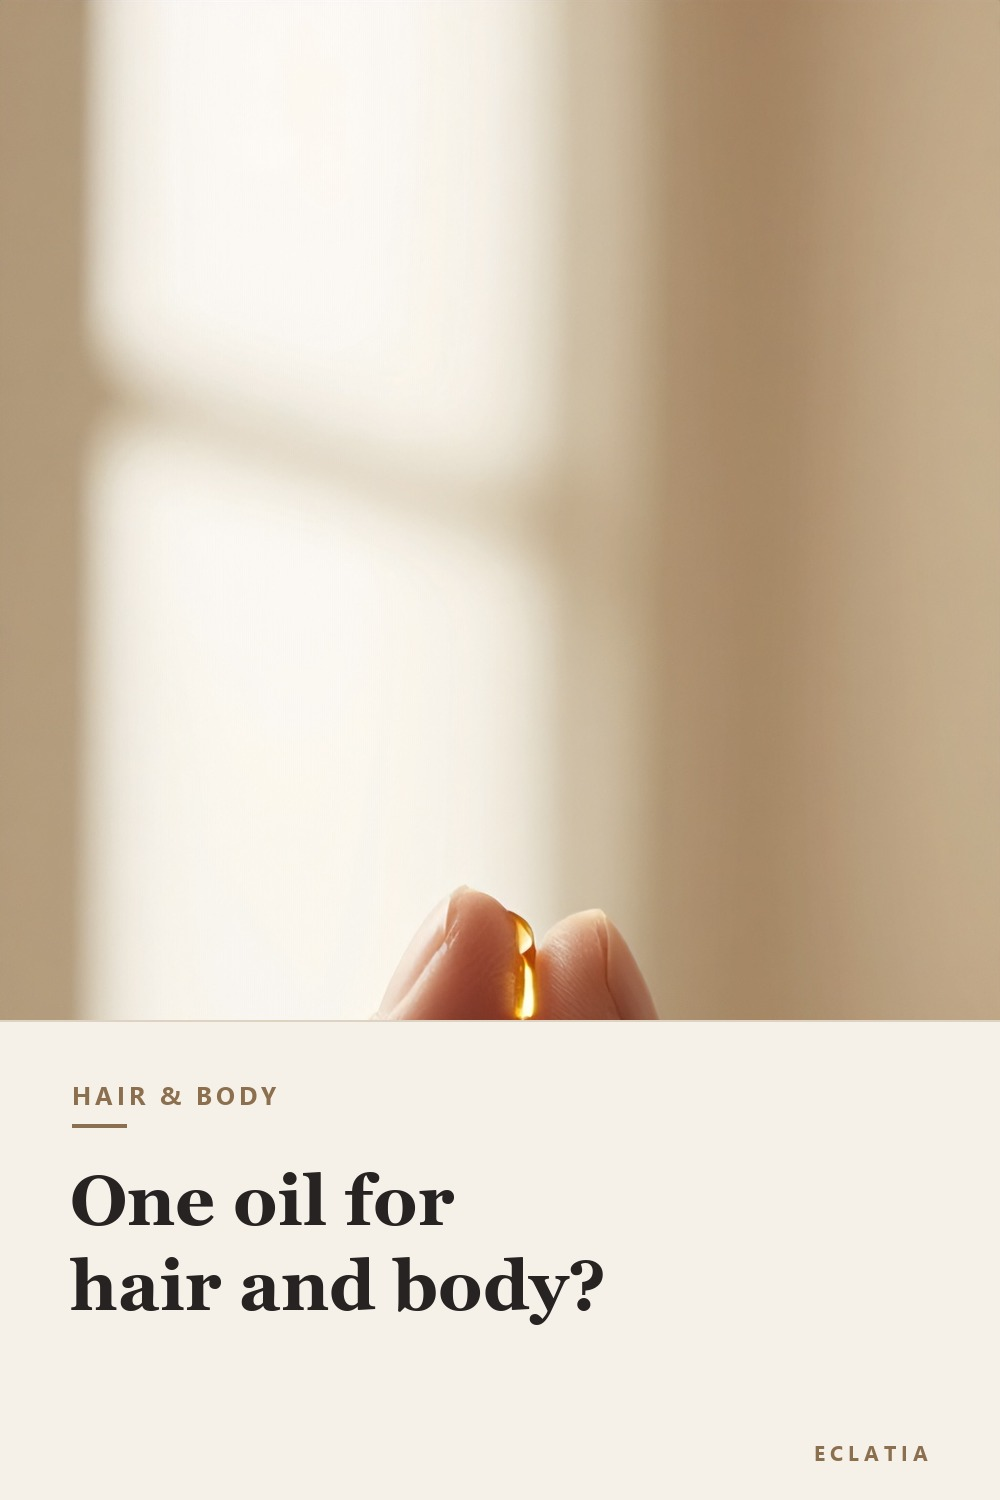
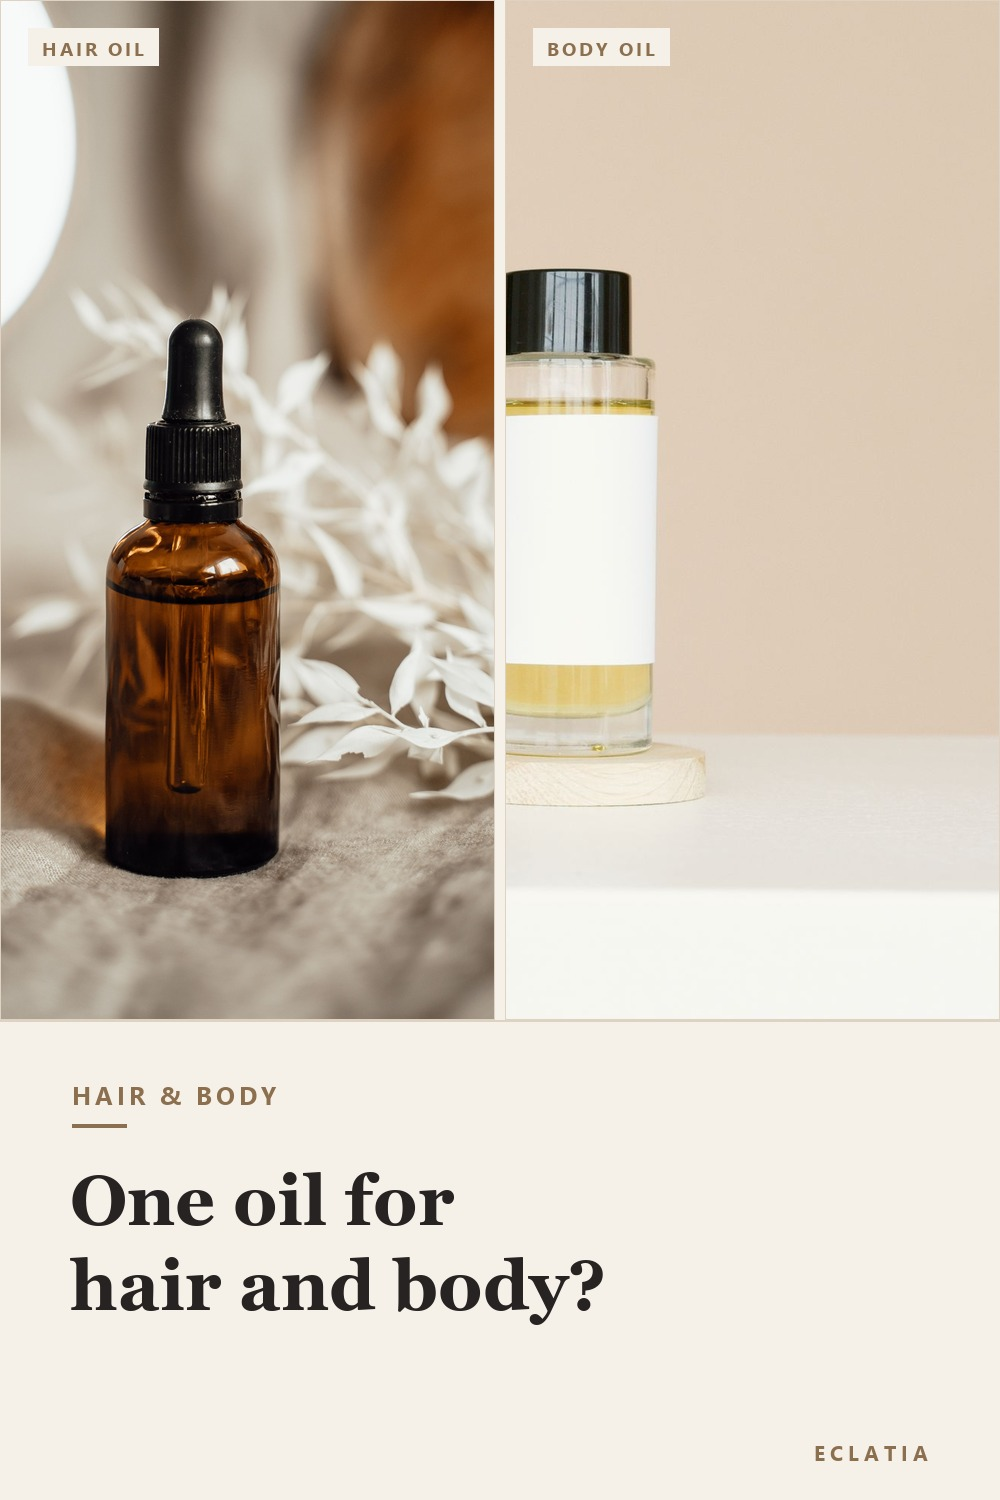
P08: visuel v2 en diptyque produit (huile cheveux / huile corps)

diff --git a/scripts/make_pins_p08.py b/scripts/make_pins_p08.py
@@ -1,0 +1,94 @@
+"""Compose le pin P08 (v2) : diptyque huile cheveux / huile corps.
+
+v1 montrait une goutte d'huile entre deux doigts sur un fond beige presque vide :
+joli, mais abstrait — et les chiffres Pinterest du compte disent que les pins
+« concept » ne declenchent pas de clic (0,4 % sur le tableau corps contre 5,3 %
+sur les cheveux). Ici, chaque moitie montre un flacon identifiable et la
+comparaison se lit d'un coup d'oeil : HAIR OIL a gauche, BODY OIL a droite.
+
+Aucune marque lisible (flacon ambre uni / flacon transparent uni).
+
+Entree  : visuels/body-oil/base-P08-hair.jpg  (Pexels 7795850)
+          visuels/body-oil/base-P06c.jpg      (Pexels 6801173)
+Sortie  : visuels/body-oil/pin-P08.jpg + pin-P08.png (1000 x 1500)
+"""
+import os
+
+from PIL import Image, ImageDraw, ImageFont
+
+from make_pins_body_oil import ACCENT, CREAM, H, INK, LINE, SEGOE_B, W, fit_font, spaced
+
+BASE = os.path.join("docs", "contenus-a-valider", "visuels", "body-oil")
+PANEL_H = 480
+GAP = 10
+PHOTO_H = 1020
+COL_W = (W - GAP) // 2  # 495
+
+KICKER = "HAIR & BODY"
+LINES = ["One oil for", "hair and body?"]
+LABELS = [
+    # (fichier, libelle, x de gauche, cadrage horizontal)
+    ("base-P08-hair.jpg", "HAIR OIL", 0, 0.50),
+    ("base-P06c.jpg", "BODY OIL", COL_W + GAP, 0.95),
+]
+
+
+def crop_fill(img, w, h, cx=0.5, top_frac=0.5):
+    r = max(w / img.width, h / img.height)
+    im = img.resize((round(img.width * r), round(img.height * r)), Image.LANCZOS)
+    left = round((im.width - w) * cx)
+    top = round((im.height - h) * top_frac)
+    left = max(0, min(left, im.width - w))
+    top = max(0, min(top, im.height - h))
+    return im.crop((left, top, left + w, top + h))
+
+
+def chip(d, xy, text, font):
+    x, y = xy
+    tw = sum(d.textlength(c, font=font) + 3 for c in text) - 3
+    pad_x, pad_y = 14, 9
+    d.rectangle([x, y, x + tw + 2 * pad_x, y + font.size + 2 * pad_y], fill=CREAM)
+    spaced(d, (x + pad_x, y + pad_y - 2), text, font, ACCENT, 3)
+
+
+def build():
+    canvas = Image.new("RGB", (W, H), CREAM)
+    fchip = ImageFont.truetype(SEGOE_B, 19)
+    for name, label, x, cx in LABELS:
+        photo = crop_fill(Image.open(os.path.join(BASE, name)).convert("RGB"), COL_W, PHOTO_H, cx)
+        canvas.paste(photo, (x, 0))
+        d = ImageDraw.Draw(canvas)
+        d.rectangle([x, 0, x + COL_W - 1, PHOTO_H - 1], outline=LINE, width=1)
+        chip(d, (x + 28, 28), label, fchip)
+
+    # bandeau texte
+    d = ImageDraw.Draw(canvas)
+    d.rectangle([0, H - PANEL_H, W, H], fill=CREAM)
+    d.rectangle([0, H - PANEL_H, W, H - PANEL_H + 1], fill=LINE)
+
+    x = 72
+    spaced(d, (x, H - PANEL_H + 58), KICKER, ImageFont.truetype(SEGOE_B, 25), ACCENT, 4)
+    d.rectangle([x, H - PANEL_H + 104, x + 54, H - PANEL_H + 107], fill=ACCENT)
+
+    f, size = fit_font(d, LINES, W - 2 * x)
+    lh = round(size * 1.22)
+    y = H - PANEL_H + 140
+    for line in LINES:
+        d.text((x - 2, y), line, font=f, fill=INK)
+        y += lh
+
+    fs = ImageFont.truetype(SEGOE_B, 21)
+    label = "ECLATIA"
+    tw = sum(d.textlength(c, font=fs) + 5 for c in label) - 5
+    spaced(d, (W - x - tw, H - 62), label, fs, ACCENT, 5)
+
+    jpg = os.path.join(BASE, "pin-P08.jpg")
+    canvas.save(jpg, quality=92, optimize=True)
+    png = os.path.join(BASE, "pin-P08.png")
+    canvas.save(png, optimize=True)
+    print("ok", jpg, canvas.size, os.path.getsize(jpg) // 1024, "Ko")
+    print("ok", png, os.path.getsize(png) // 1024, "Ko")
+
+
+if __name__ == "__main__":
+    build()

diff --git a/docs/contenus-a-valider/pins/P08-a-publier.md b/docs/contenus-a-valider/pins/P08-a-publier.md
@@ -15,7 +15,19 @@
 | **Lien** | `https://guide-beaute.pages.dev/guides/hair-oil-vs-body-oil/?utm_source=Pinterest&utm_medium=organic&utm_campaign=P08` |
 | **Tableau** | `Body Care & Dry Skin` |
 | **Tagged topics** | Hair Care · Body Care · Beauty Tips |
-| **Alt** | `A drop of golden oil held between two fingertips, backlit.` |
+| **Alt** | `An amber dropper bottle labeled HAIR OIL next to a clear bottle of golden oil labeled BODY OIL.` |
+
+---
+
+## Le visuel (v2, diptyque produit)
+
+La v1 montrait une goutte d'huile entre deux doigts sur un fond beige presque vide. Joli, mais abstrait — et les chiffres du compte sont sans ambiguïté : le tableau corps fait **0,4 % de clics sortants**, le tableau cheveux **5,3 %**, sur la même période. Les pins « concept » ne déclenchent pas de clic ; les pins « produit à choisir » oui.
+
+La v2 se lit en une seconde : **HAIR OIL** à gauche, **BODY OIL** à droite, et la question en bas. Aucune marque lisible (flacon ambre uni, flacon transparent uni).
+
+- Photos : Pexels 7795850 (cheveux) et 6801173 (corps, déjà utilisé pour P06)
+- Script : `scripts/make_pins_p08.py`
+- Mise en page : diptyque 2 × 495 px, bandeau crème 480 px, même charte que P07
 
 ---
 
